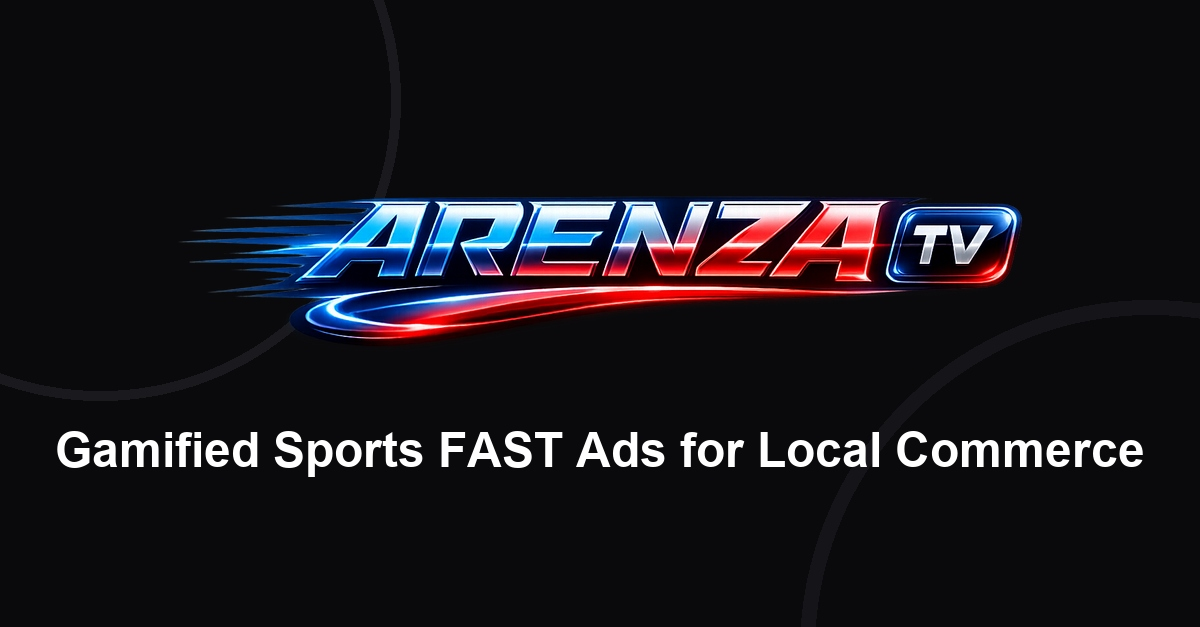
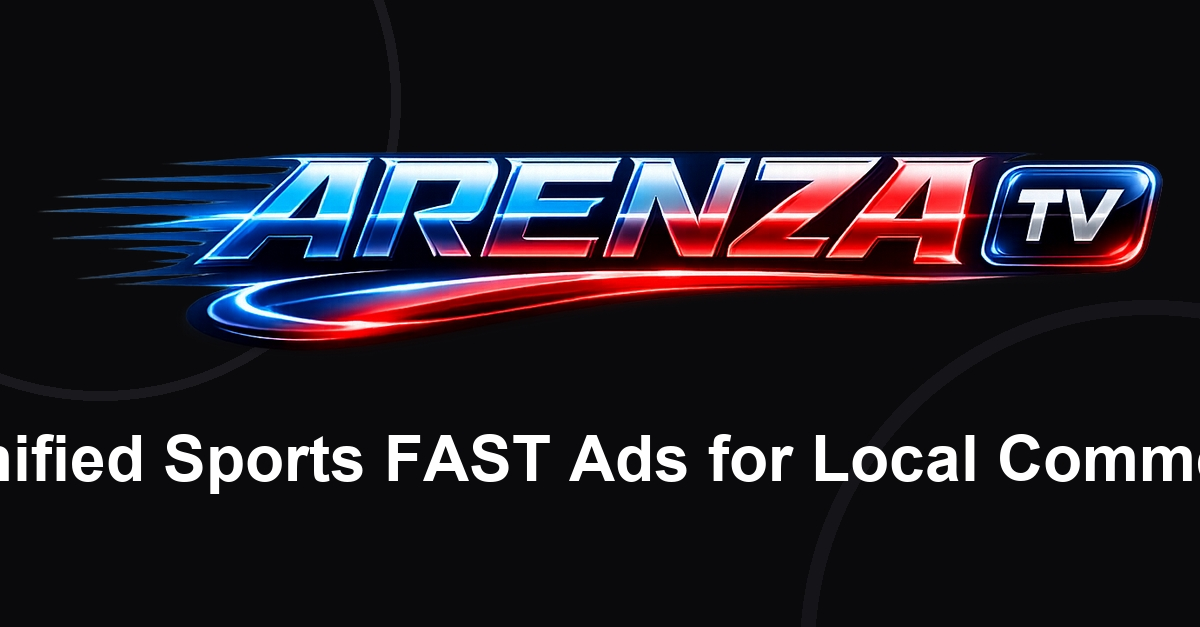
chore: fix font loading for OG image to ensure large readable text

Changed region(s): [[0.0308, 0.2424, 0.9867, 0.5758], [0.0, 0.6667, 1.0, 0.7879]]

diff --git a/packages/dashboard/scripts/generate_og.py b/packages/dashboard/scripts/generate_og.py
@@ -15,7 +15,7 @@ def generate_og_image():
     # Image specs
     width = 1200
     height = 627
-    bg_color = (10, 10, 12) # very dark, almost black
+    bg_color = (10, 10, 12) # very dark
     
     # Create background
     img = Image.new('RGB', (width, height), color=bg_color)
@@ -31,32 +31,48 @@ def generate_og_image():
         logo_w, logo_h = logo.size
         aspect = logo_w / logo_h
         
-        # Keep logo relatively large but sharp
-        new_logo_h = 180
+        # Increase logo size a bit
+        new_logo_h = 240
         new_logo_w = int(new_logo_h * aspect)
         logo = logo.resize((new_logo_w, new_logo_h), Image.Resampling.LANCZOS)
         
-        # Center logo vertically shifted up slightly
+        # Center logo vertically shifted up more
         logo_x = (width - new_logo_w) // 2
-        logo_y = (height - new_logo_h) // 2 - 40
+        logo_y = (height - new_logo_h) // 2 - 60
         
         # Paste logo using alpha channel as mask
         img.paste(logo, (logo_x, logo_y), logo)
     except Exception as e:
         print(f"Error loading logo: {e}")
-        logo_y = height // 2 - 100
-        new_logo_h = 200
+        logo_y = height // 2 - 120
+        new_logo_h = 240
 
     # Add text
     text = "Gamified Sports FAST Ads for Local Commerce"
-    # Try to use a Bold font for clarity
-    try:
-        font = ImageFont.truetype("arialbd.ttf", 48)
-    except:
+    
+    # Try absolute paths for Windows fonts to ensure they load
+    font_paths = [
+        r"C:\Windows\Fonts\arialbd.ttf",
+        r"C:\Windows\Fonts\segoeuib.ttf",
+        r"C:\Windows\Fonts\trebucbd.ttf",
+        r"C:\Windows\Fonts\tahoma.ttf",
+        "arialbd.ttf"
+    ]
+    
+    font = None
+    # Use a large size for maximum clarity
+    font_size = 64
+    for path in font_paths:
         try:
-            font = ImageFont.truetype("segoeuib.ttf", 48)
+            font = ImageFont.truetype(path, font_size)
+            print(f"Successfully loaded font: {path}")
+            break
         except:
-            font = ImageFont.load_default()
+            continue
+            
+    if font is None:
+        print("Warning: Could not load any TrueType font. Falling back to default.")
+        font = ImageFont.load_default()
         
     try:
         bbox = draw.textbbox((0, 0), text, font=font)
@@ -67,13 +83,14 @@ def generate_og_image():
         text_w, text_h = draw.textsize(text, font=font)
     
     text_x = (width - text_w) // 2
-    text_y = logo_y + new_logo_h + 60
+    # Ensure there is enough padding below logo
+    text_y = logo_y + new_logo_h + 50
         
-    # Draw text in crisp white for maximum contrast
+    # Draw text in crisp white
     draw.text((text_x, text_y), text, fill=(255, 255, 255), font=font)
     
-    # Save optimized JPG with higher quality for clarity
-    img.save(out_path, format="JPEG", quality=98, optimize=True)
+    # Save optimized JPG with highest quality
+    img.save(out_path, format="JPEG", quality=100, optimize=True)
     
     print(f"Saved {out_path} ({os.path.getsize(out_path)} bytes)")
 
